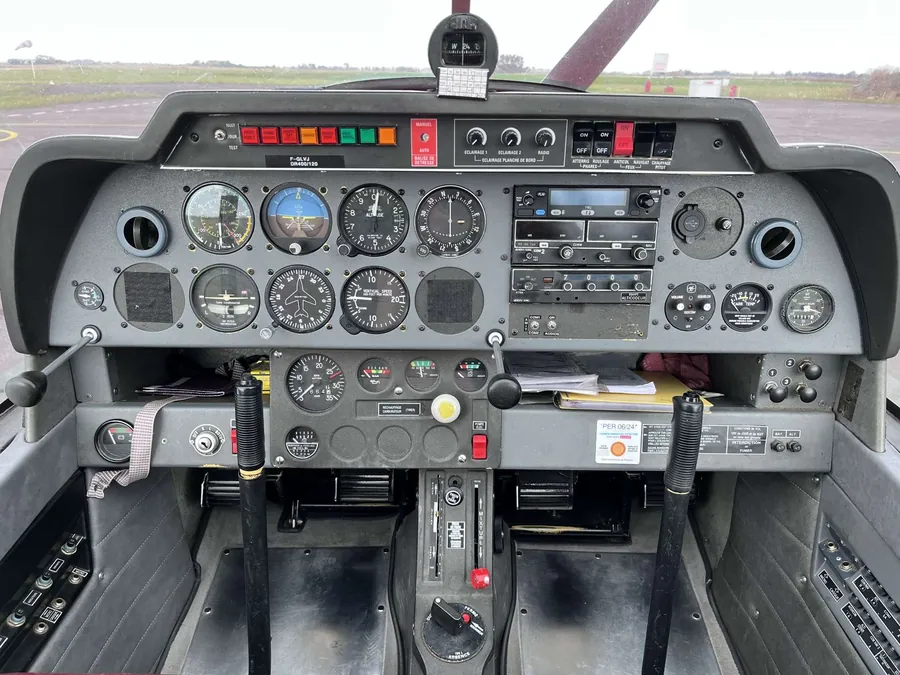
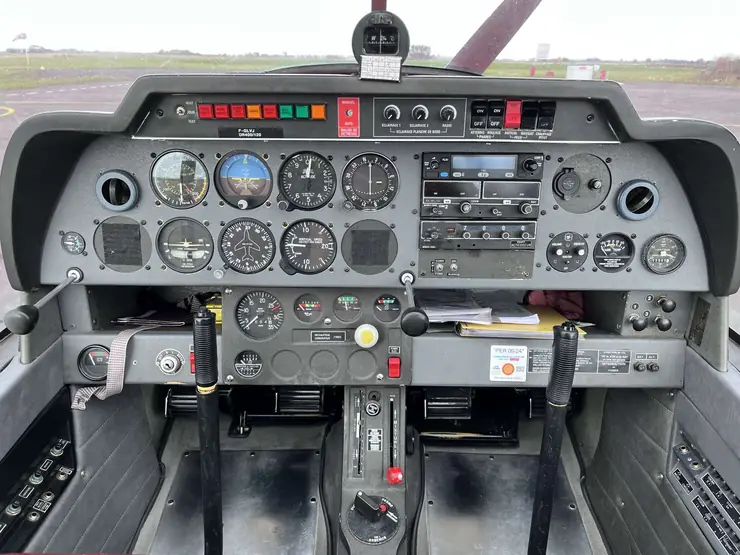
Perf : alléger encore l'image LCP (740 px / q72) pour viser 100 %
Le déployé est passé à 99 % (LCP 2,9 → 2,0 s) après le passage en WebP. Pour
gagner le dernier point, on réduit la largeur (900 → 740 px) et la qualité
(80 → 72) des photos de cartes : l'image LCP intro-cor tombe de 99 à 53 Ko, ce
qui supprime le résidu d'audit « uses-responsive-images » et raccourcit encore
le LCP.

Claude-Session: https://claude.ai/code/session_01GTEmJzpkafcZtfUopunUR3

diff --git a/tools/optimize-images.py b/tools/optimize-images.py
@@ -30,9 +30,10 @@ PHOTOS = [
 ]
 
 # Largeur d'affichage max ~500 px CSS ; on garde une marge pour les écrans à forte
-# densité (DPR ~2) sans repartir des 1600–2048 px d'origine.
-MAX_WIDTH = 900
-QUALITY = 80
+# densité (DPR ~1,5) sans repartir des 1600–2048 px d'origine. 740 px suffit à la
+# carte tout en supprimant l'audit Lighthouse « uses-responsive-images ».
+MAX_WIDTH = 740
+QUALITY = 72
 
 IMAGES_DIR = os.path.join(os.path.dirname(__file__), os.pardir, "images")
 
